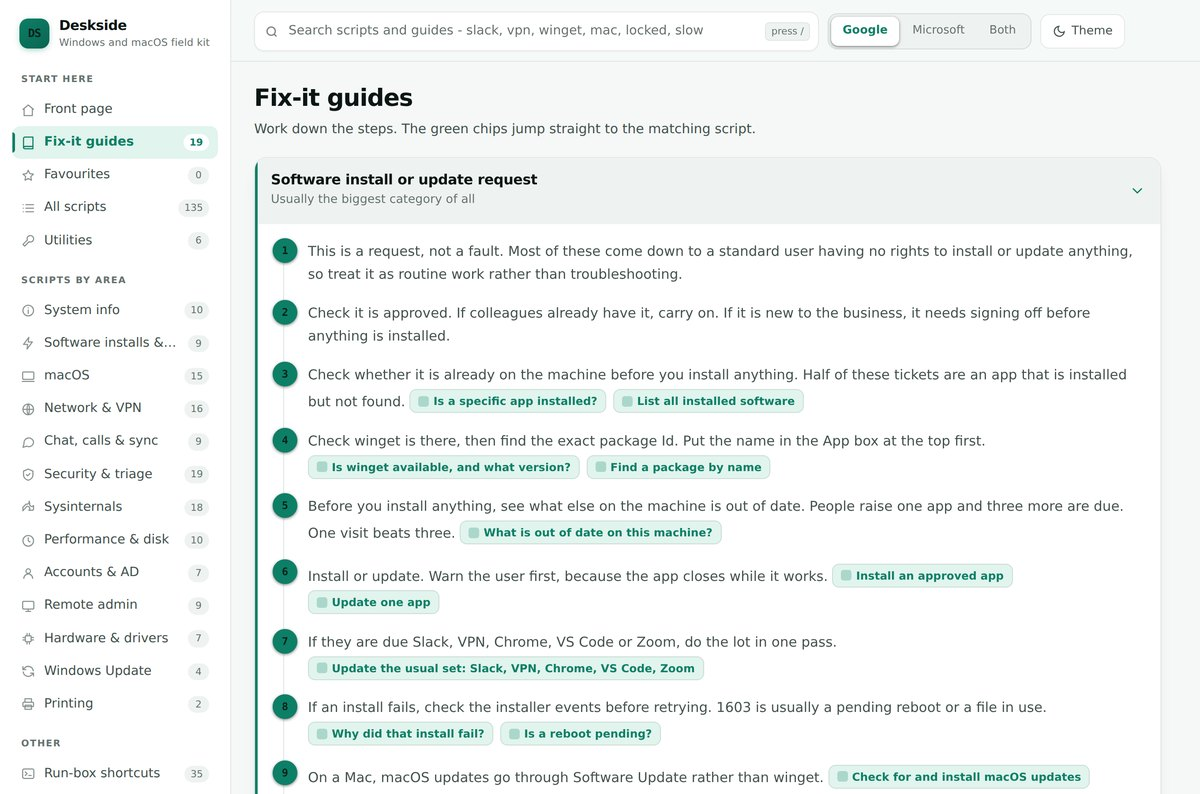
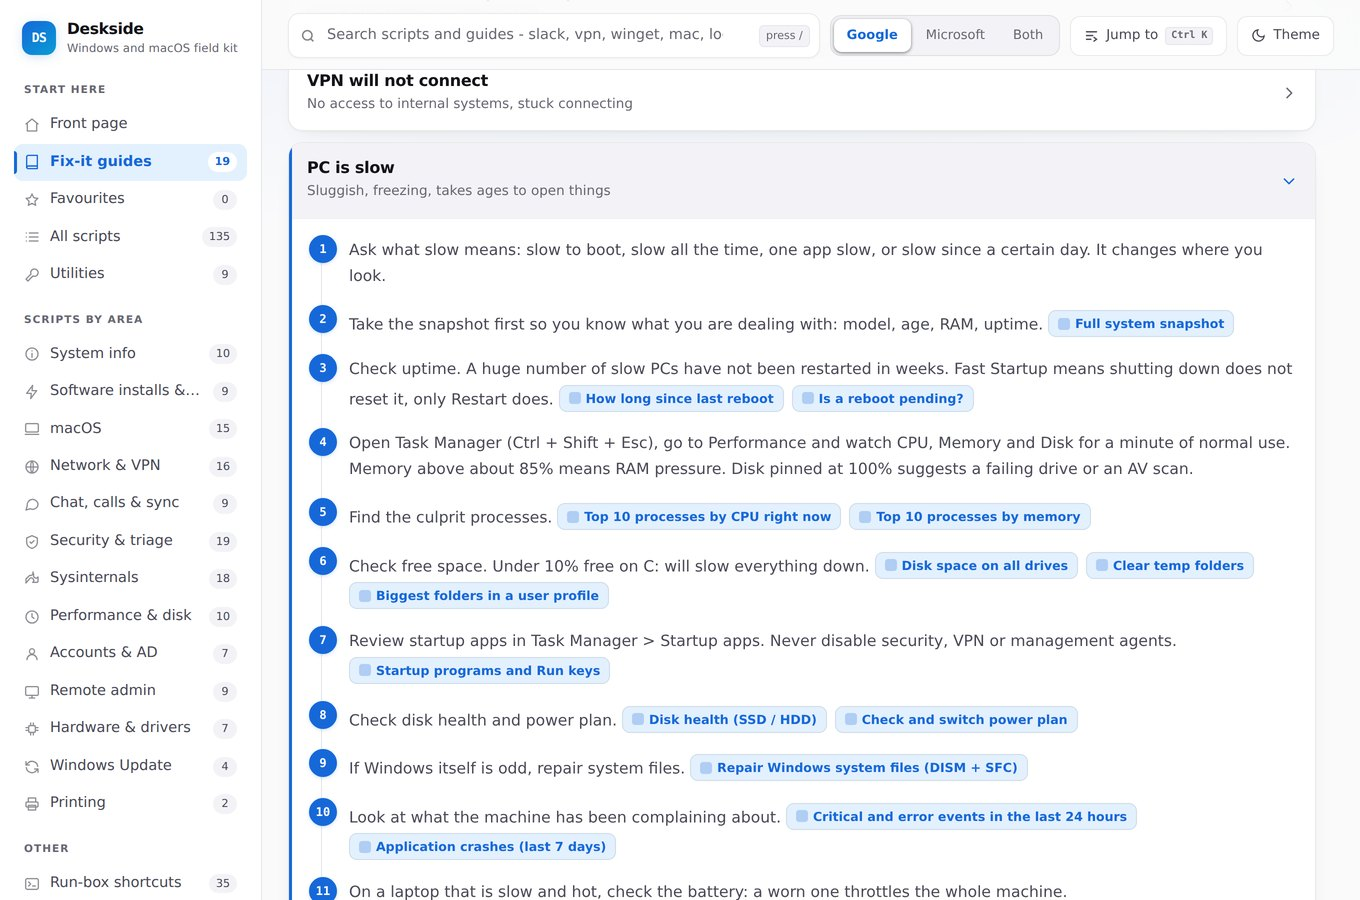
Fix contrast and keyboard access, and bring the docs back in line

diff --git a/index.html b/index.html
@@ -30,7 +30,7 @@
      fighting the page. --on-accent is whatever text sits ON the accent: a token
      rather than a literal, because it has to flip between the two themes. */
   --bg:#fafafb; --surface:#ffffff; --surface2:#f3f3f7; --sunk:#edeef3;
-  --ink:#131318; --ink2:#4a4a57; --muted:#71717f;
+  --ink:#131318; --ink2:#4a4a57; --muted:#686874;   /* 4.74:1 on the palest surface - AA on 11px text */
   --line:#e5e5ec; --line2:#f0f0f4; --border:rgba(19,19,24,.09);
   --accent:#1668d9; --accent2:#0f57bd; --accent-grad:#06a6d4; --accent-soft:#e3f0fe;
   --on-accent:#ffffff; --accent-glow:rgba(22,104,217,.34);
@@ -169,7 +169,7 @@ button,input,textarea{font:inherit;color:inherit}
 .nav button.on{background:var(--accent-soft);color:var(--accent);font-weight:600}
 .nav button.on::before{content:"";position:absolute;left:0;top:7px;bottom:7px;width:3px;
   border-radius:0 3px 3px 0;background:var(--accent)}
-.nav .ct{font-size:11px;color:var(--muted);background:var(--surface2);border-radius:20px;
+.nav .ct{font-size:11px;color:var(--ink2);background:var(--surface2);border-radius:20px;
   padding:1px 7px;min-width:24px;text-align:center;font-variant-numeric:tabular-nums}
 .nav button.on .ct{background:var(--surface);color:var(--accent)}
 .nav .ic{width:16px;height:16px;flex:none;opacity:.62}
@@ -222,6 +222,9 @@ button,input,textarea{font:inherit;color:inherit}
 /* ---------- main ---------- */
 main{padding:26px 26px 90px;min-width:0;max-width:1080px}
 .vh{position:absolute;width:1px;height:1px;padding:0;margin:-1px;overflow:hidden;clip:rect(0 0 0 0);white-space:nowrap;border:0}
+.skip{position:absolute;left:-9999px;top:0;z-index:200;background:var(--accent);color:var(--on-accent);
+  padding:12px 18px;border-radius:0 0 10px 0;font-weight:600;text-decoration:none}
+.skip:focus{left:0}
 .head{margin:0 0 20px}
 .head h1{font-family:var(--display);font-size:27px;line-height:1.2;letter-spacing:-.028em;
   margin:0 0 5px;font-weight:700}
@@ -281,9 +284,9 @@ main{padding:26px 26px 90px;min-width:0;max-width:1080px}
 .tile .tt{display:block;font-family:var(--display);font-weight:650;font-size:16.5px;
   letter-spacing:-.02em;line-height:1.28}
 .tile .tb{display:block;color:var(--muted);font-size:13px;margin-top:4px;line-height:1.45}
-.tile .tn{position:absolute;top:14px;right:16px;font:700 12px/1 var(--mono);color:var(--line);
-  letter-spacing:-.04em}
-.tile:hover .tn{color:var(--accent-soft)}
+.tile .tn{position:absolute;top:14px;right:16px;font:700 12px/1 var(--mono);
+  color:color-mix(in srgb,var(--muted) 55%,transparent);letter-spacing:-.04em}
+.tile:hover .tn{color:var(--accent)}
 
 .quick{display:flex;gap:9px;flex-wrap:wrap}
 .quick button{display:inline-flex;align-items:center;gap:8px;background:var(--surface);
@@ -611,6 +614,7 @@ textarea#notes:focus{border-color:var(--accent);box-shadow:0 0 0 3px var(--accen
 </style>
 </head>
 <body>
+<a class="skip" href="#main">Skip to the content</a>
 
 <div class="app">
   <aside class="rail">
@@ -631,6 +635,7 @@ textarea#notes:focus{border-color:var(--accent);box-shadow:0 0 0 3px var(--accen
         <div class="search">
           <svg class="mag" width="16" height="16" viewBox="0 0 24 24" fill="none" stroke="currentColor" stroke-width="2.3"><circle cx="11" cy="11" r="7"/><path d="m20 20-4-4"/></svg>
           <input id="q" type="search" autocomplete="off" spellcheck="false"
+                 aria-label="Search scripts and guides"
                  placeholder="Search scripts and guides - slack, vpn, winget, mac, locked, slow">
           <span class="hint">press /</span>
         </div>
@@ -659,7 +664,7 @@ textarea#notes:focus{border-color:var(--accent);box-shadow:0 0 0 3px var(--accen
         <span class="fill w" data-fill="SYS"><label for="v_SYS">Sysinternals</label><input id="v_SYS" data-var="SYS" spellcheck="false"></span>
       </div>
     </div>
-    <main id="main"></main>
+    <main id="main" tabindex="-1"></main>
   </div>
 </div>
 <div class="palwrap" id="palwrap" role="dialog" aria-modal="true" aria-label="Jump to anything">
@@ -667,6 +672,7 @@ textarea#notes:focus{border-color:var(--accent);box-shadow:0 0 0 3px var(--accen
     <div class="pal-in">
       <svg viewBox="0 0 24 24" fill="none" stroke="currentColor" stroke-width="2.3"><circle cx="11" cy="11" r="7"/><path d="m20 20-4-4"/></svg>
       <input id="palQ" type="text" autocomplete="off" spellcheck="false"
+             aria-label="Jump to a script, guide, tool or shortcut"
              placeholder="Jump to a script, guide, tool or shortcut">
       <span class="pal-esc">esc</span>
     </div>
@@ -678,7 +684,7 @@ textarea#notes:focus{border-color:var(--accent);box-shadow:0 0 0 3px var(--accen
     </div>
   </div>
 </div>
-<div class="toast" id="toast"></div>
+<div class="toast" id="toast" role="status" aria-live="polite"></div>
 
 <script>
 /* ============================================================

diff --git a/docs/DEPLOY.md b/docs/DEPLOY.md
@@ -1,61 +1,97 @@
 # Putting it online
 
-The toolkit is one static file, so hosting it is genuinely a five-minute job.
-These steps assume the domain's DNS is already at Cloudflare.
+The toolkit is one static file, so hosting it really is a short job. What follows
+is the route that worked, including the two places it goes wrong.
 
 ## 1. Push the repository
 
 ```bash
 git init
 git add .
-git commit -m "Deskside 1.0.0"
+git commit -m "Deskside"
 git branch -M main
 git remote add origin git@github.com:<you>/deskside.git
 git push -u origin main
 ```
 
-Check the Actions tab. The test suite should go green within a couple of minutes.
+Check the Actions tab. The suite should go green in about a minute.
+
+If CI fails immediately with a message about `package-lock.json`, you have not
+committed the lockfile. `npm ci` refuses to run without one, deliberately.
 
 ## 2. Protect `main`
 
-Settings → Branches → Add rule for `main`:
+Settings → Rules → Rulesets → New branch ruleset. Target the default branch and
+tick **exactly two** things:
 
-- Require a pull request before merging
-- Require status checks to pass, and select **tests**
+- **Restrict deletions**
+- **Block force pushes**
 
-This is the control from SECURITY.md. It is what stops a change to this file
-reaching an engineer's elevated PowerShell without anyone looking at it.
+**Do not require a pull request** if you are the only person working on this.
+It sounds like the responsible choice and it is the wrong one: you cannot then
+push to your own repository without opening a PR against yourself, and you will
+turn it off within a week. The two rules above cost you nothing day to day and
+prevent the only two things that actually destroy work.
+
+If other people start contributing, that changes. Required review on a file whose
+contents get pasted into elevated shells is worth a great deal — see SECURITY.md.
+Turn it on when there is somebody to do the reviewing.
 
 ## 3. Publish it
 
-**Cloudflare Pages** is the better fit when the DNS is already there.
+**GitHub Pages**, and there is no build step to configure.
 
-1. Cloudflare dashboard → Workers & Pages → Create → Pages → Connect to Git
-2. Pick the repository. Leave the build command empty and set the output
-   directory to `/`. There is no build step; the file is the product.
-3. Deploy. You get a `*.pages.dev` URL straight away.
-4. Custom domains → add `toolkit.<yourdomain>`. Because Cloudflare holds the
-   DNS, the CNAME is created for you and the certificate is issued
-   automatically.
+1. Settings → Pages → Source → **Deploy from a branch** → `main` / `/ (root)`
+2. Wait a minute. The site is live at `https://<you>.github.io/deskside/`
+3. Check it loads before going near a custom domain.
 
-**GitHub Pages** works just as well if you would rather not add a service:
-Settings → Pages → Deploy from a branch → `main` / root. For a custom domain,
-add a `CNAME` file containing the hostname and point a CNAME record at
-`<you>.github.io`.
+Add an empty `.nojekyll` file at the root first. Without it, Pages runs
+everything through Jekyll, which silently ignores files and folders beginning
+with an underscore.
+
+### A custom domain
+
+1. Settings → Pages → Custom domain → `toolkit.<yourdomain>` → Save.
+   It will say *DNS check unsuccessful*. That is expected at this point.
+2. At your DNS provider, add a **CNAME** record: name `toolkit`, target
+   `<you>.github.io`.
+3. **If your DNS is at Cloudflare, set that record to DNS only — the grey
+   cloud, not the orange one.** This is the step everyone gets wrong. GitHub
+   issues its certificate by answering a challenge over plain HTTP on your
+   domain. With Cloudflare's proxy on, Cloudflare answers that request instead
+   of GitHub, the certificate never issues, and you get an SSL error loop that
+   looks like a GitHub fault. It is not.
+4. Back on the Pages settings, click **Check again**. It can take a couple of
+   tries — GitHub caches a failed lookup. Then wait for the certificate, and
+   tick **Enforce HTTPS** once it becomes available.
+
+If you later want Cloudflare's proxy in front of it, set SSL/TLS mode to
+**Full (strict)** *before* turning the orange cloud on, and not while the
+certificate is still being issued.
+
+### Not Cloudflare Pages
+
+Older instructions, including an earlier version of this file, pointed at
+Cloudflare Pages. Cloudflare has since folded Pages into Workers, and a new
+project now lands in a Workers setup flow that asks for `npx wrangler deploy`.
+That will fail, because there is no wrangler config here and nothing for it to
+deploy. It is possible to host this on Workers Static Assets by adding a
+`wrangler.jsonc`, but that is a config file to maintain for a site that is one
+HTML file. GitHub Pages needs nothing.
 
 ## 4. Tag a release
 
 ```bash
-git tag -a v1.0.0 -m "Deskside 1.0.0"
-git push origin v1.0.0
+git tag -a v1.4.0 -m "Deskside 1.4.0"
+git push origin v1.4.0
 ```
 
 Then draft a release on GitHub and attach `index.html` to it. That gives people
-a single file to download and keep locally, which matters: the guide they will
-want most is the one about the network being down, and a hosted page is exactly
-what is missing at that moment.
+one file to download and keep, which matters more than it sounds: the guide they
+will want most is the one about the network being down, and a hosted page is
+precisely what is missing at that moment.
 
 ## 5. Tell people
 
-Share the URL, and tell them to save a copy of `index.html` as well. Online for
+Share the URL, and tell them to press Ctrl+S on it as well. Online for
 convenience, on disk for when it counts.

diff --git a/README.md b/README.md
@@ -1,5 +1,4 @@
 # Deskside
-[![tests](https://github.com/zeezmann/deskside/actions/workflows/ci.yml/badge.svg)](https://github.com/zeezmann/deskside/actions/workflows/ci.yml)
 
 A single HTML file that holds everything a service desk engineer reaches for: the
 commands, the order to try them in, and a handful of tools that do the job in the
@@ -19,8 +18,10 @@ because the guide you will want most is the one titled *No internet*.
 |---|---|
 | **158 scripts** | PowerShell and macOS, each with a plain-English description of what it does and when it lies to you |
 | **24 fix-it guides** | Numbered steps in the order an experienced engineer would actually work them |
-| **6 utilities** | Subnet calculator, password generator, file checksum, CSV inspector, diagram viewer, encrypted secret handover |
+| **9 utilities** | Subnet calculator, password generator, file checksum, CSV inspector, error code decoder, text comparison, Windows build lookup, paste cleaner, diagram viewer |
 | **35 run-box shortcuts** | The `.msc` and `.cpl` list, click to copy |
+
+Press **Ctrl+K**, or **Cmd+K** on a Mac, from anywhere to jump to any of it.
 
 Windows and macOS. Google Workspace and Microsoft 365, switchable, so you only
 ever see the half that applies to where you work.
@@ -37,31 +38,41 @@ search only helps people who already know what they are looking for.
 Type a machine name or a username into the fill-in boxes and every script on
 screen updates. **Copy** gives you the filled-in version, ready to paste.
 
-![The Sysinternals section](docs/screenshot-scripts.jpg)
+![The Network and VPN section in dark mode](docs/screenshot-scripts.jpg)
 
 Badges say what a script will do before you run it. **Makes changes** means it
 changes the machine. **Interrupts the user** is the one to watch: it closes their
 apps, drops their connection or restarts their machine. Anything without a badge
 only reads.
 
-### Secret handover
+### Utilities
 
-Seal a password with a passphrase so it can go in a ticket without the password
-going in the ticket. AES-256-GCM, key stretched with PBKDF2-SHA256 at 600,000
-iterations, fresh salt and IV every time, all of it in the page.
+Nine tools that do the job in the page rather than handing you a command to run
+somewhere else. They work offline like the rest of it, and nothing they touch
+leaves the browser.
 
-![Secret handover](docs/screenshot-secret.jpg)
+![The subnet calculator](docs/screenshot-utilities.jpg)
 
-**It is not Safenote.** There is no server here, so there is no burn-after-reading.
-Anyone holding the blob and the passphrase can open it as often as they like.
-Send the passphrase by a different route than the blob, and rotate the credential
-after handover.
+The ones that earn their place most often: the **error code decoder**, which turns
+`0x80070005` into "access denied, and here is which log to open"; **compare two
+outputs**, for when you have `ipconfig /all` from the machine that works and the
+one that does not; and **which Windows is this**, which turns a build number into
+a version and a support date, and tells you how old its own data is rather than
+quietly going stale.
 
 ---
+
+## Publishing your own copy
+
+[docs/DEPLOY.md](docs/DEPLOY.md) covers pushing it to GitHub, wiring up CI and
+putting it on a domain.
 
 ## Using it
 
 Download `index.html` and open it. That is the whole installation.
+
+It works on a phone and a tablet as well as a laptop, so it is worth having the
+link saved on whatever you are carrying.
 
 Put it on a shared drive if the team wants it, but make it **read-only** for
 everyone except two or three named people. Engineers paste commands out of it into
@@ -113,16 +124,19 @@ npx playwright install chromium
 npm test
 ```
 
-25 tests, run on every push. They cover the things that would quietly rot:
+51 tests, run on every push. They cover the things that would quietly rot:
 
 - the file loads with **zero external requests** — the offline promise, enforced
 - every script is reachable from a guide, and no guide points at a script that does not exist
 - a fill-in containing an apostrophe still produces valid PowerShell
 - the Google / Microsoft switch never leaves a dangling reference in any of its three states
-- the encryption round-trips, the same secret seals differently each time, and a
-  wrong passphrase or a tampered blob is refused rather than half-decrypted
-- the downloaded opener file decrypts on its own, in a clean browser, with no network
-- no sideways scroll on a phone
+- **seven screen sizes from 360px to 1024px, across nine views, with zero
+  horizontal overflow** — one grid property once cost 720px of sideways scroll on
+  a phone and nothing on a laptop, so this is now asserted rather than eyeballed
+- every touch target clears 38px, and the media query that makes that true still matches
+- the command palette ranks the obvious answer first
+- each utility mounts without error, and the ones with real logic are checked
+  against known-good answers rather than themselves
 
 If Chromium is already on the machine and you cannot download another copy:
 

diff --git a/CHANGELOG.md b/CHANGELOG.md
@@ -3,6 +3,44 @@
 All notable changes to this project are recorded here.
 Format follows [Keep a Changelog](https://keepachangelog.com/en/1.1.0/).
 
+## [1.4.1] — 2026-09-25
+
+A housekeeping pass after 1.4. Nothing here changes what the toolkit does; it
+changes what it claims, and who can read it.
+
+### Fixed - accessibility
+- `--muted`, which carries every piece of secondary text on the page, sat at
+  4.34:1 on the palest surface. AA wants 4.5 and 11px text is exactly where it
+  matters. Now #686874, worst case 4.74:1.
+- The sidebar count badges used `--muted` on `--surface2`, the worst pairing in
+  the file. They use `--ink2` now.
+- The 01-06 numbers on the front-page tiles were drawn in `--line`, a border
+  colour. In dark mode that was 1.23:1, which is not subtle, it is absent.
+- **Added a skip link.** With twenty items in the sidebar, reaching the content
+  by keyboard meant twenty tab presses.
+- The toast is `aria-live="polite"`, so "Copied to clipboard" is announced
+  rather than only shown.
+- The search box and the palette input have real labels. A placeholder is not
+  a label; it disappears the moment you type.
+
+### Fixed - documentation that had drifted
+- The README still advertised six utilities and a Secret handover tool that was
+  removed in 1.4, with a screenshot of it. It also described 25 tests covering
+  encryption that no longer exists.
+- All four repository screenshots were of the old green design, including the
+  one used as the link preview image.
+- **docs/DEPLOY.md was actively misleading.** It recommended requiring a pull
+  request on `main`, which is the wrong call for one person and gets turned off
+  within a week; and it pointed at Cloudflare Pages, which no longer exists as
+  described - a new project now lands in a Workers flow that asks for
+  `wrangler deploy` and fails. Rewritten around GitHub Pages, including the
+  Cloudflare grey-cloud step that silently prevents the certificate issuing.
+- `package.json` still said 1.0.0.
+
+### Checked and found correct
+- 158 scripts and 24 guides, which the README already said. Worth stating
+  because the temptation was to "fix" numbers that were right.
+
 ## [1.4.0] — 2026-09-25
 
 ### Changed

diff --git a/SECURITY.md b/SECURITY.md
@@ -25,23 +25,10 @@ upstream cannot alter what your team pastes tomorrow.
   of any kind. There is a test that fails the build if one appears.
 - No credentials are stored in the file, and none should ever be added to it.
 - Favourites, notes and fill-in values live in browser local storage on that
-  machine only.
-
-## Secret handover
-
-AES-256-GCM, key derived with PBKDF2-SHA256 at 600,000 iterations, fresh 16-byte
-salt and 12-byte IV per seal, all performed with the Web Crypto API in the page.
-
-It is **not** a self-destructing note. There is no server, so a sealed blob can
-be opened as many times as someone likes. Send the passphrase by a different
-route than the blob, delete both copies after handover, and rotate the
-credential anyway.
-
-The downloadable opener file is a small HTML page containing the ciphertext and
-a decrypt form. It makes no network requests. Be aware that an HTML attachment
-asking for a passphrase looks exactly like a credential-harvesting page, because
-structurally it is the same shape: tell the recipient it is coming, and tell
-your security team the tool exists.
+  machine only. They are not synchronised anywhere and clearing browsing data
+  removes them.
+- The utilities that read a file - the checksum tool, the CSV inspector, the
+  diagram viewer - read it in the page. Nothing is uploaded.
 
 ## Reporting something
 
